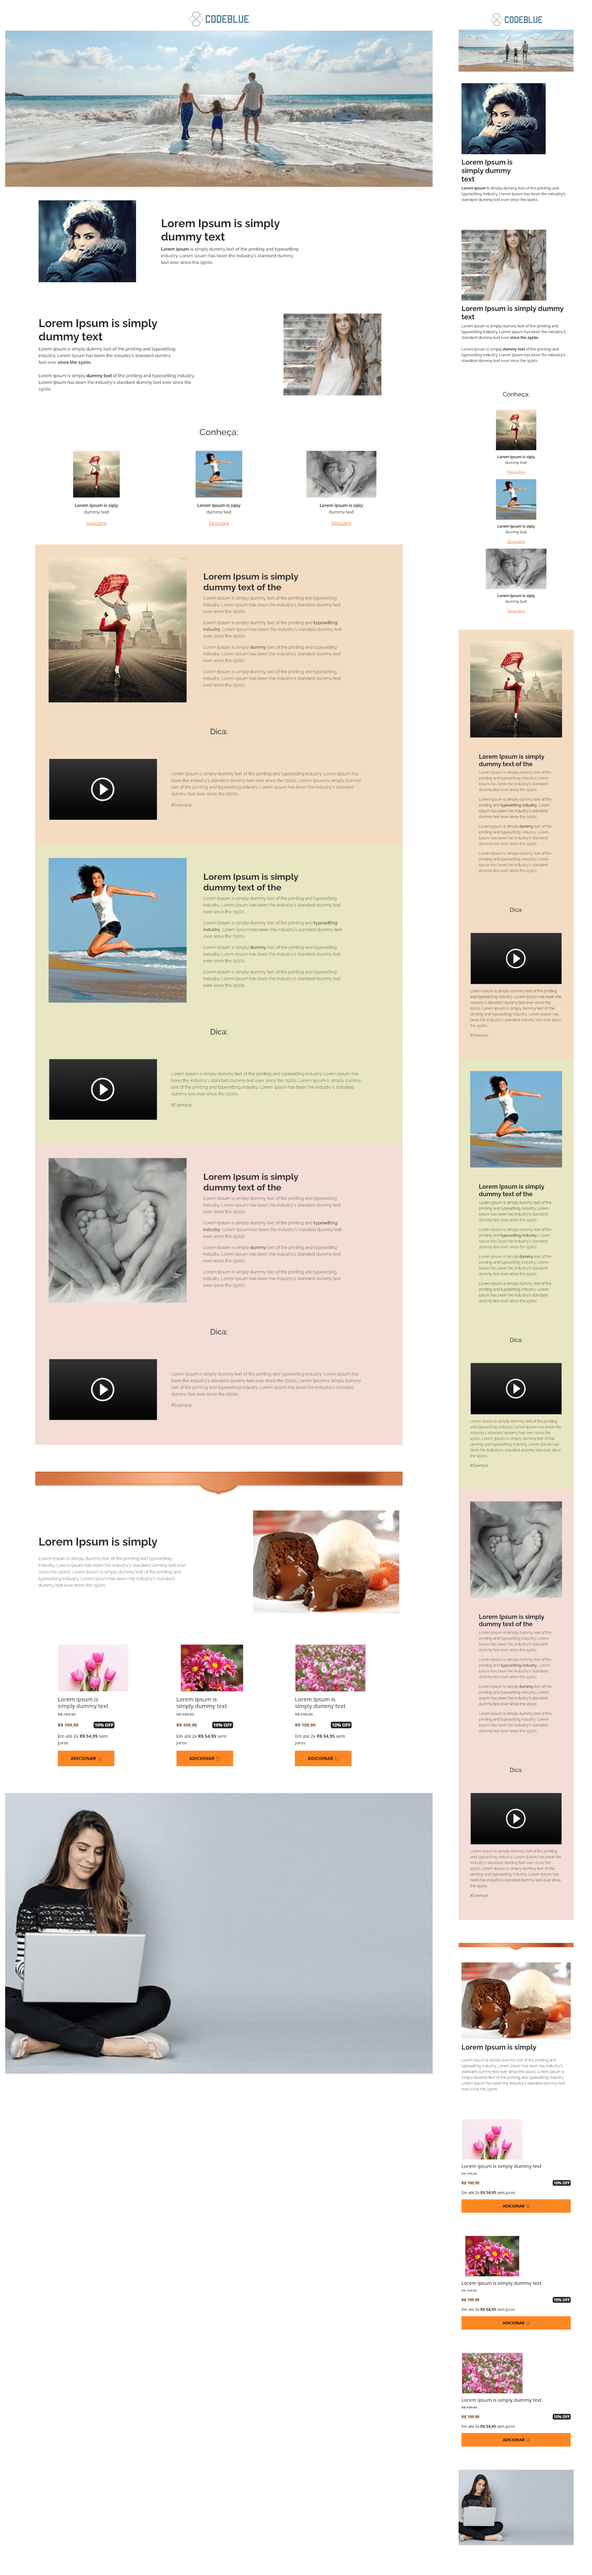
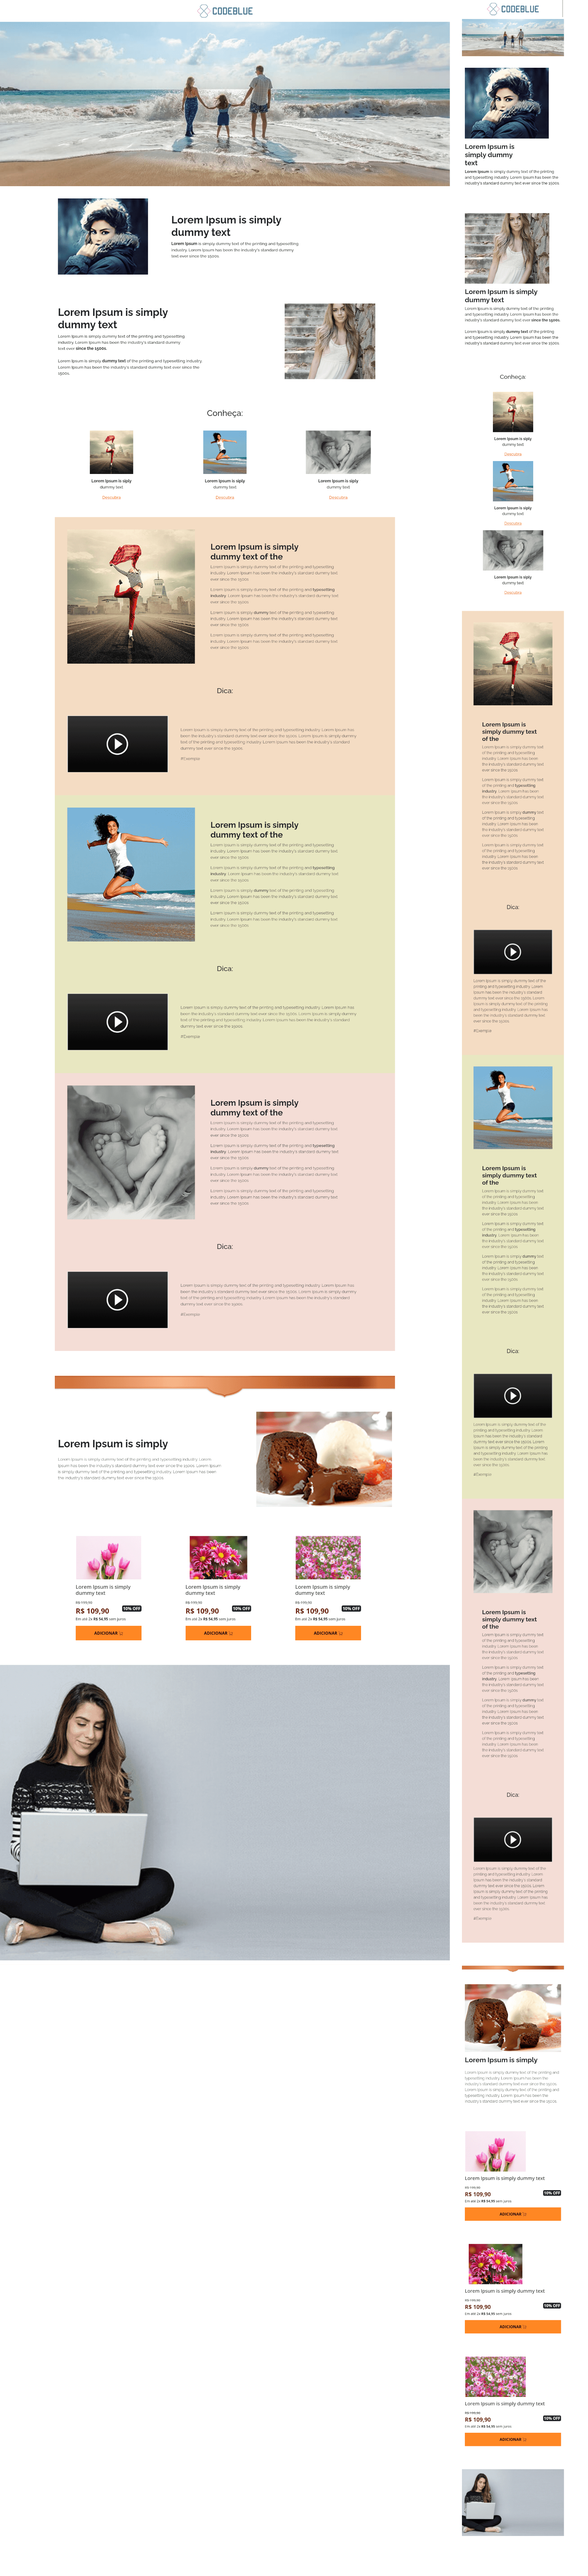
ajuste ecommerce site com bootstrap

diff --git a/projetos/projetos/site-com-ecommerce-bootstrap/site-com-ecommerce-bootstrap.html b/projetos/projetos/site-com-ecommerce-bootstrap/site-com-ecommerce-bootstrap.html
@@ -275,18 +275,18 @@
             <figure>
               <img src="./imagens/flores1.png" alt="flores">
             </figure>
-            <article class="col-sm-8">
-              <h3 class="fs-5">Lorem Ipsum is simply dummy text</h3>
-              <p class="small text-decoration-line-through text-muted">R$ 199,90</span>
+            <article class="col-xl-10">
+              <h3 class="fs-5 mb-3">Lorem Ipsum is simply dummy text</h3>
+              <p class="small m-0 text-decoration-line-through text-muted">R$ 199,90</span>
 
-              <p class="price-cor fw-bold">
+              <p class="price-cor fw-bold fs-3 m-0">
                   R$ 109,90
                 <span class="float-end bg-dark fs-6 text-white fw-bold px-1 rounded">
                       10% OFF
                 </span>
               </p>
 
-              <p>
+              <p class="small">
                 Em até 2x <strong>R$ 54,95</strong> sem juros
               </p>
               <button class="fw-bold btn-cor text-uppercase fs-6 w-100 py-3 border-0">Adicionar <img src="./imagens/cart.svg" alt="icon carrinho de comprar"></button>
@@ -295,20 +295,20 @@
 
           <section class="col-xl-3 m-5">
             <figure>
-              <img class="h-100" src="./imagens/flores2.png" alt="flores">
+              <img src="./imagens/flores2.png" alt="flores">
             </figure>
-            <article class="col-sm-8">
-              <h3 class="fs-5">Lorem Ipsum is simply dummy text</h3>
-              <p class="small text-decoration-line-through text-muted">R$ 199,90</span>
+            <article class="col-xl-10">
+              <h3 class="fs-5 mb-3">Lorem Ipsum is simply dummy text</h3>
+              <p class="small m-0 text-decoration-line-through text-muted">R$ 199,90</span>
 
-              <p class="price-cor fw-bold">
+              <p class="price-cor fs-3 m-0 fw-bold">
                   R$ 109,90
                 <span class="float-end bg-dark fs-6 text-white fw-bold px-1 rounded">
                       10% OFF
                 </span>
               </p>
 
-              <p>
+              <p class="small">
                 Em até 2x <strong>R$ 54,95</strong> sem juros
               </p>
               <button class="fw-bold btn-cor text-uppercase fs-6 w-100 py-3 border-0">Adicionar <img src="./imagens/cart.svg" alt="icon carrinho de comprar"></button>
@@ -319,18 +319,18 @@
             <figure>
               <img src="./imagens/flores3.png" alt="flores">
             </figure>
-            <article class="col-sm-8">
-              <h3 class="fs-5">Lorem Ipsum is simply dummy text</h3>
-              <p class="small text-decoration-line-through text-muted">R$ 199,90</span>
+            <article class="col-xl-10">
+              <h3 class="fs-5 mb-3">Lorem Ipsum is simply dummy text</h3>
+              <p class="small text-decoration-line-through m-0 text-muted">R$ 199,90</span>
 
-              <p class="price-cor fw-bold">
+              <p class="price-cor fs-3 m-0 fw-bold">
                   R$ 109,90
                 <span class="float-end bg-dark fs-6 text-white fw-bold px-1 rounded">
                       10% OFF
                 </span>
               </p>
 
-              <p>
+              <p class="small">
                 Em até 2x <strong>R$ 54,95</strong> sem juros
               </p>
               <button class="fw-bold btn-cor text-uppercase fs-6 w-100 py-3 border-0">Adicionar <img src="./imagens/cart.svg" alt="icon carrinho de comprar"></button>

diff --git a/projetos/projetos/site-com-ecommerce-bootstrap/site-com-ecommerce-bootstrap.css b/projetos/projetos/site-com-ecommerce-bootstrap/site-com-ecommerce-bootstrap.css
@@ -1,6 +1,5 @@
 :root {
   --bs-font-sans-serif: 'Raleway', sans-serif;
-  --bs-font-open-sans: 'Open Sans', sans-serif;
 }
 
 .text-primary {
@@ -23,5 +22,5 @@
 }
 
 .font-open-sans {
-  font-family: var(--bs-font-open-sans);
+  font-family: 'Open Sans', sans-serif;
 }
